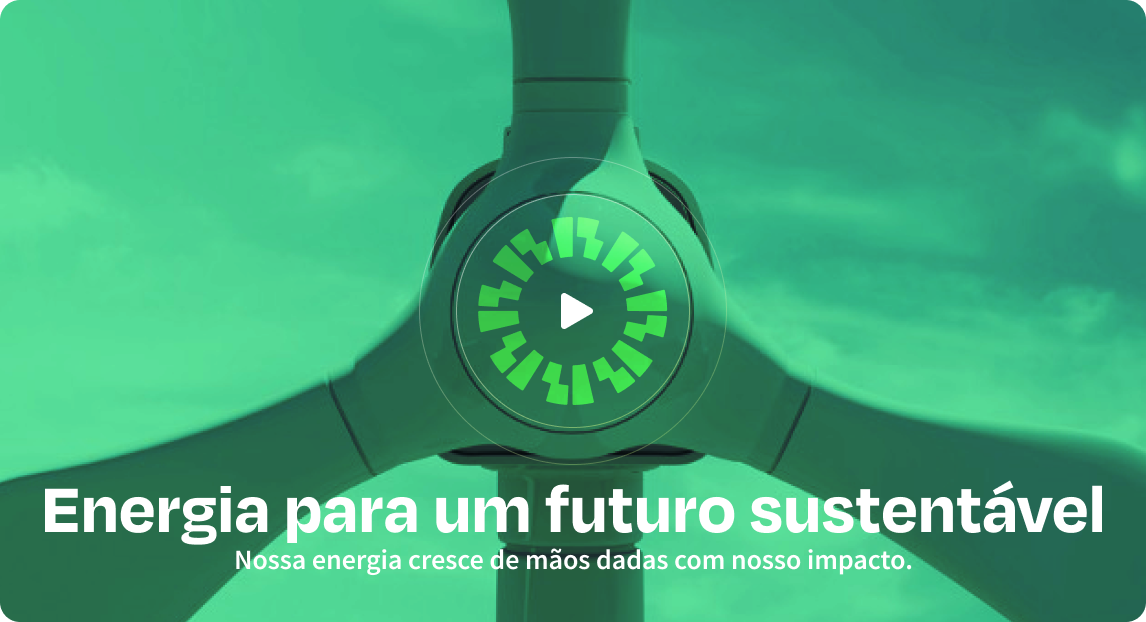
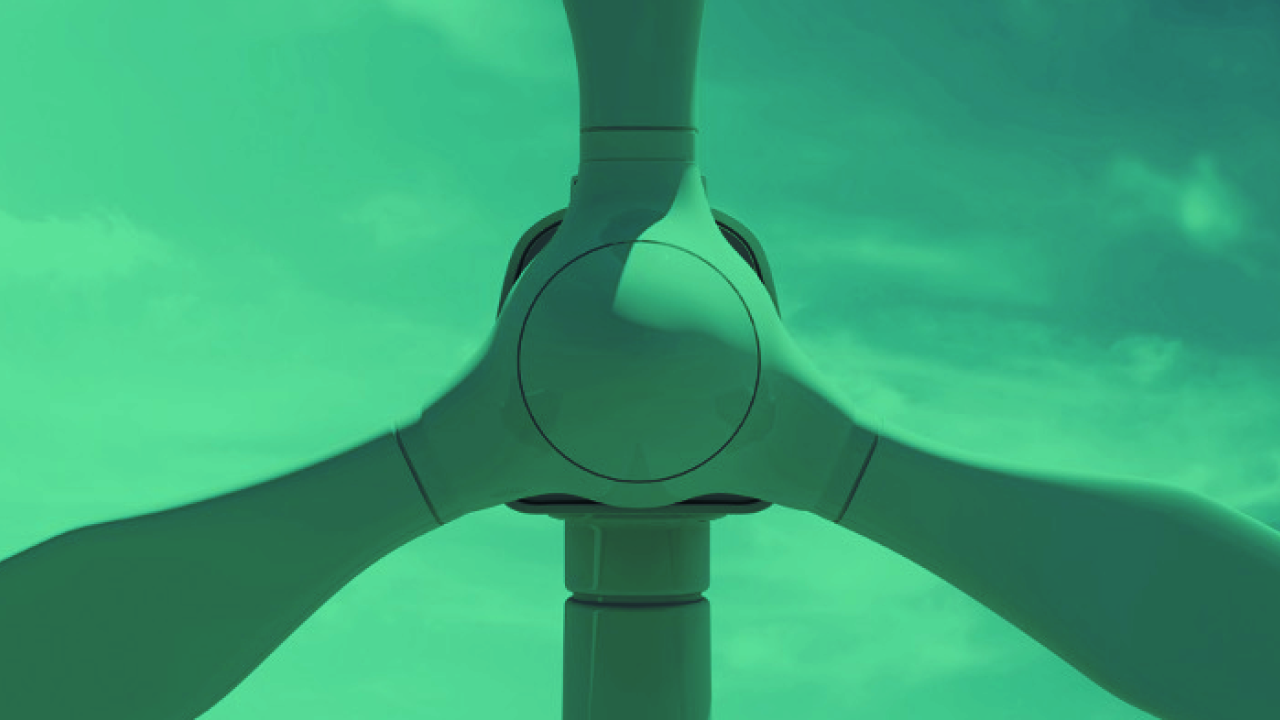
secao de video da home alterado para imagem estatica com texto sobreposto

diff --git a/src/components/Home/Player/index.js b/src/components/Home/Player/index.js
@@ -6,9 +6,10 @@ export default function Player() {
   return (
     <>
       <div className="player xl:container mx-auto p-10">
-        <div className="video rounded-3xl block bg-cover" style={{ height: '622px', backgroundImage: `url('${video}')`}} >
-          <div className="">
-
+        <div className="flex flex-col justify-end video rounded-3xl block bg-cover" style={{ height: '622px', backgroundImage: `url('${video}')`}} >
+          <div className="flex flex-col pb-6">
+            <h1 className="text-center font-serif font-bold text-7xl text-white">Energia para um futuro sustentável</h1>
+            <h2 className="text-center font-sans font-semibold text-3xl text-white">Nossa energia cresce de mãos dadas com nosso impacto.</h2>
           </div>
         </div>
       </div>
